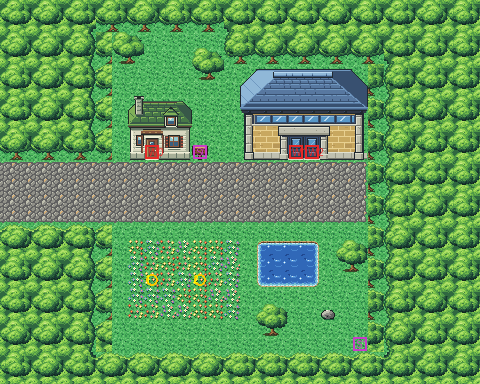
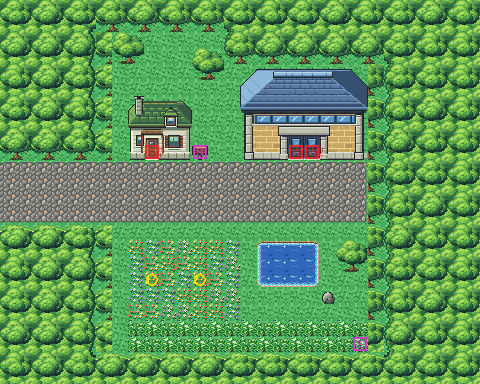
Route 7: tall grass along the garden's south side keeps its wild Pokémon
The first build had no grass, so Route 7's wild table (Growlithe, Meowth, Oddish, Pidgey) went
unused. A strip of grass along the singing garden's south side brings it back; a replay test
meets a wild Pidgey there. The hidden Wepear Berry's corner is in the grass now.

Claude-Session: https://claude.ai/code/session_01XMJF17U18XtbfGGgKpeJmb

Changed region(s): [[0.25, 0.75, 0.7812, 0.9375]]

diff --git a/project/art/route7-concept/draw_plan.py b/project/art/route7-concept/draw_plan.py
@@ -11,13 +11,13 @@ reached only through the gate (its door 18-19,9). It has:
   onto the road;
 - **the Underground Path's hut** north of the road with its sign: the way under Saffron to Route 8 and Lavender;
 - **the singing garden** south of the road, a bed of flowers where the Jigglypuff sings to the Ralts, by a little
-  pond, the Wepear Berry hidden in its corner.
+  pond, with tall grass along its south side (Route 7's wild Pokémon) and the Wepear Berry hidden in its corner.
 
 The west seven columns are forest and road only: old Celadon has no free slot left, only 106 tile slots it never
 shows, for this strip (KR-54). Every block is at least 7 in from the right edge, so the camera never shows old Saffron
 across it (no seam: KR-34).
 
-Letters: the kit's legend (T forest, . lawn, = cobble, * flowers, ~ pond, o rocks, b bushes, R trees, S signs),
+Letters: the kit's legend (T forest, . lawn, = cobble, g grass, * flowers, ~ pond, o rocks, b bushes, R trees, S signs),
 F Saffron's west gate (Route 2's south forest gate), U the Underground Path's hut (Viridian's pond keeper's house).
 """
 from pathlib import Path
@@ -54,10 +54,12 @@ rect(8, 6, 11, 9, "U")                         # the hut, door 9,9
 at(12, 9, "S")                                 # its sign, read from 12,10
 rect(7, 2, 8, 3, "R"); rect(12, 3, 13, 4, "R")
 
-# the singing garden south of the road: flowers, the little pond, trees round it
+# the singing garden south of the road: flowers, the little pond, a tree and a rock by it; tall grass along its
+# south side (Route 7's wild Pokémon live there)
 rect(8, 15, 14, 19, "*")
 rect(16, 15, 19, 17, "~")
-rect(21, 15, 22, 16, "R"); rect(16, 19, 17, 20, "R"); at(20, 19, "o")
+rect(21, 15, 22, 16, "R"); at(20, 18, "o")
+rect(8, 20, 22, 21, "g")
 
 Path(__file__).with_name("plan_stage1.txt").write_text("".join("".join(r) + "\n" for r in g))
 print("    " + "".join(str(x % 10) for x in range(W)))

diff --git a/engine/src/data/pae_seams.h b/engine/src/data/pae_seams.h
@@ -3081,7 +3081,7 @@ static const struct KantoSeamPalette ALIGNED(4) sPaeSeam_ViridianCity_Frlg_Palet
     { &Route4_Frlg_FireRedGeometry, sPaeSeam_Route4_Frlg_Metatiles, sPaeSeam_Route4_Frlg_GlyphRuns, sPaeSeam_Route4_Frlg_Palettes, NULL, 912, 112, 1, 1, 0, 0 }, \
     { &Route5_Frlg_FireRedGeometry, sPaeSeam_Route5_Frlg_Metatiles, sPaeSeam_Route5_Frlg_GlyphRuns, sPaeSeam_Route5_Frlg_Palettes, NULL, 972, 52, 0, 0, 0, 0 }, \
     { &Route6_Frlg_FireRedGeometry, sPaeSeam_Route6_Frlg_Metatiles, sPaeSeam_Route6_Frlg_GlyphRuns, sPaeSeam_Route6_Frlg_Palettes, NULL, 908, 116, 1, 3, 0, 0 }, \
-    { &Route7_Frlg_FireRedGeometry, sPaeSeam_Route7_Frlg_Metatiles, sPaeSeam_Route7_Frlg_GlyphRuns, sPaeSeam_Route7_Frlg_Palettes, NULL, 987, 33, 1, 2, 0, 0 }, \
+    { &Route7_Frlg_FireRedGeometry, sPaeSeam_Route7_Frlg_Metatiles, sPaeSeam_Route7_Frlg_GlyphRuns, sPaeSeam_Route7_Frlg_Palettes, NULL, 991, 33, 1, 2, 0, 0 }, \
     { &Route8_Frlg_FireRedGeometry, sPaeSeam_Route8_Frlg_Metatiles, sPaeSeam_Route8_Frlg_GlyphRuns, sPaeSeam_Route8_Frlg_Palettes, NULL, 922, 102, 1, 1, 0, 0 }, \
     { &Route9_Frlg_FireRedGeometry, sPaeSeam_Route9_Frlg_Metatiles, sPaeSeam_Route9_Frlg_GlyphRuns, sPaeSeam_Route9_Frlg_Palettes, NULL, 876, 148, 1, 0, 0, 0 }, \
     { &VermilionCity_Frlg_FireRedGeometry, sPaeSeam_VermilionCity_Frlg_Metatiles, sPaeSeam_VermilionCity_Frlg_GlyphRuns, sPaeSeam_VermilionCity_Frlg_Palettes, NULL, 870, 154, 1, 2, 0, 0 }, \

diff --git a/project/docs/kanto-rebuild.md b/project/docs/kanto-rebuild.md
@@ -44,7 +44,7 @@ outdoor art. They stay the old maps; their doors and warps keep working.
 | 12 | Route 10 | 38×90 | 38×60 | #49 | Down the mountains' east side: the clearing with the Pokémon Center and Rock Tunnel's north mouth, a meadow behind young trees to cut, the river down to the lake where the Power Plant stands on its island (by water only), the mountains, and the south valley from Rock Tunnel's south mouth to Lavender. In the same pull request as Route 9: old Route 10 had no room for a seam to the new Route 9. |
 | 13 | Lavender Town | 38×31 | 38×32 | #52 | The quiet town in a hollow of the hills: the square where the three roads meet, with the Center, the Mart and the Friends' camp; Pokémon Tower (drawn for it) at the east end of the street; the stone garden; Mr. Fuji's Volunteer House and two houses in the south-west yard. Route 12 moves 4 blocks east under it (KR-50). |
 | 14 | Route 8 | 68×40 | 60×30 | #53 | The road west from Lavender to Saffron's east gate, in no trainer's sight, with the Underground Path's hut by it; north of it the gamblers' stands, an old race track the two bikers ride round (a hedged berry garden in it, behind a tree to cut) and a pine grove with the twins; south of it a grass field, the row of four by a picnic cloth and a meadow behind the second tree to cut. |
-| 15 | Route 7 | 20×28 | 30×24 | this PR | The short park road from Celadon's east street to Saffron's west gate, out of the trees at Celadon's edge: the Underground Path's hut and the gate on the road, the singing garden (the Jigglypuff and the Ralts) by a little pond. |
+| 15 | Route 7 | 20×28 | 30×24 | this PR | The short park road from Celadon's east street to Saffron's west gate, out of the trees at Celadon's edge: the Underground Path's hut and the gate on the road, the singing garden (the Jigglypuff and the Ralts) by a little pond, tall grass along its south side. |
 | 16 | Celadon City | 60×40 | | | Department Store, Game Corner, Mansion. |
 | 17 | Saffron City (and its twin `SaffronCity_Connection`) | 66×55 | | | Silph Co.; the guards at its four gates. |
 | 18 | Route 16 | 64×52 | | | Snorlax, Cycling Road's gate. |

diff --git a/project/docs/story-sanity-check.md b/project/docs/story-sanity-check.md
@@ -13,10 +13,10 @@ plays the events one after another, each starting where the last one left the ga
 |---|---|
 | Date | 2026-10-26 |
 | Game | branch `claude/kanto-route7` (Route 7 rebuilt, on `v2-main` at `39dbcefd`) |
[2 lines of base64/hex data omitted]
 | pae | `69213f1` (pae PR #23) for the replay tests and steps 47–50; `06115c8` (pae PR #24: blocks and walks as the game has them) for steps 51–59; `95025b1` (pae PR #26) for steps 60–69; `fe38af0` (pae PR #27: walks know the metatiles the game makes) for steps 70–76; `77c66ac` (pae `main` after PR #27) for steps 77–110; `22cc6f9` (pae `main` after PR #28) for steps 111–142 and the replay tests |
 | Last step passed | 142 `celadon`: onto Route 9 and through it (the team now one Kingler, level 65, with Surf and Cut), Route 10's Center, Rock Tunnel's two floors (nine trainers whose lines can't be gone round), out of its south mouth, down Route 10 into Lavender, its Center (in, heal, out), west along Route 8 into the Underground Path, along its tunnel under Saffron, out onto Route 7 and west into Celadon. Steps 141–142 were run on this build, from step 140's checkpoint |
-| Replay tests | 305 of 305 pass (on this ROM; this change adds 7) |
+| Replay tests | 306 of 306 pass (on this ROM; this change adds 8) |
 
 ## How to run it
 

diff --git a/project/art/route7-concept/README.md b/project/art/route7-concept/README.md
@@ -15,7 +15,8 @@ own west gate door (its row 27) is level with this gate's (row 9), as with the o
 - **the Underground Path's hut** (Viridian's pond keeper's house) north of the road with its sign: the way under
   Saffron to Route 8 and Lavender;
 - **the singing garden** south of the road, a bed of flowers where the Jigglypuff sings to the Ralts, by a little
-  pond, the Wepear Berry hidden in its corner.
+  pond, with tall grass along its south side, where Route 7's wild Pokémon live, and the Wepear Berry hidden in its
+  corner.
 
 Every warp keeps its number and the Pokémon their order; they stand at the ground's elevation. Celadon's border tree
 is still shown across the join where it stands on Celadon's grid (the clone, now at −7,19). The pieces are the kit's,
